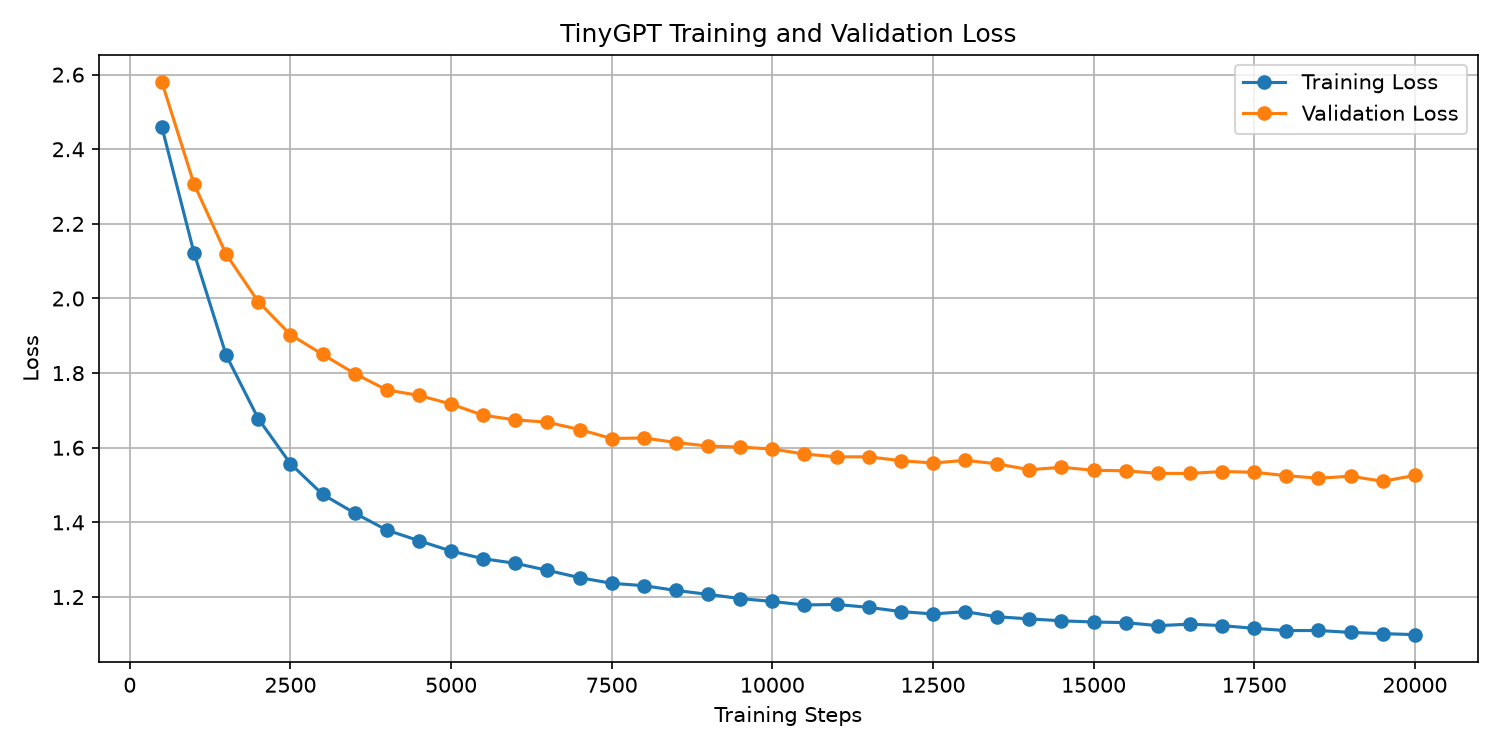
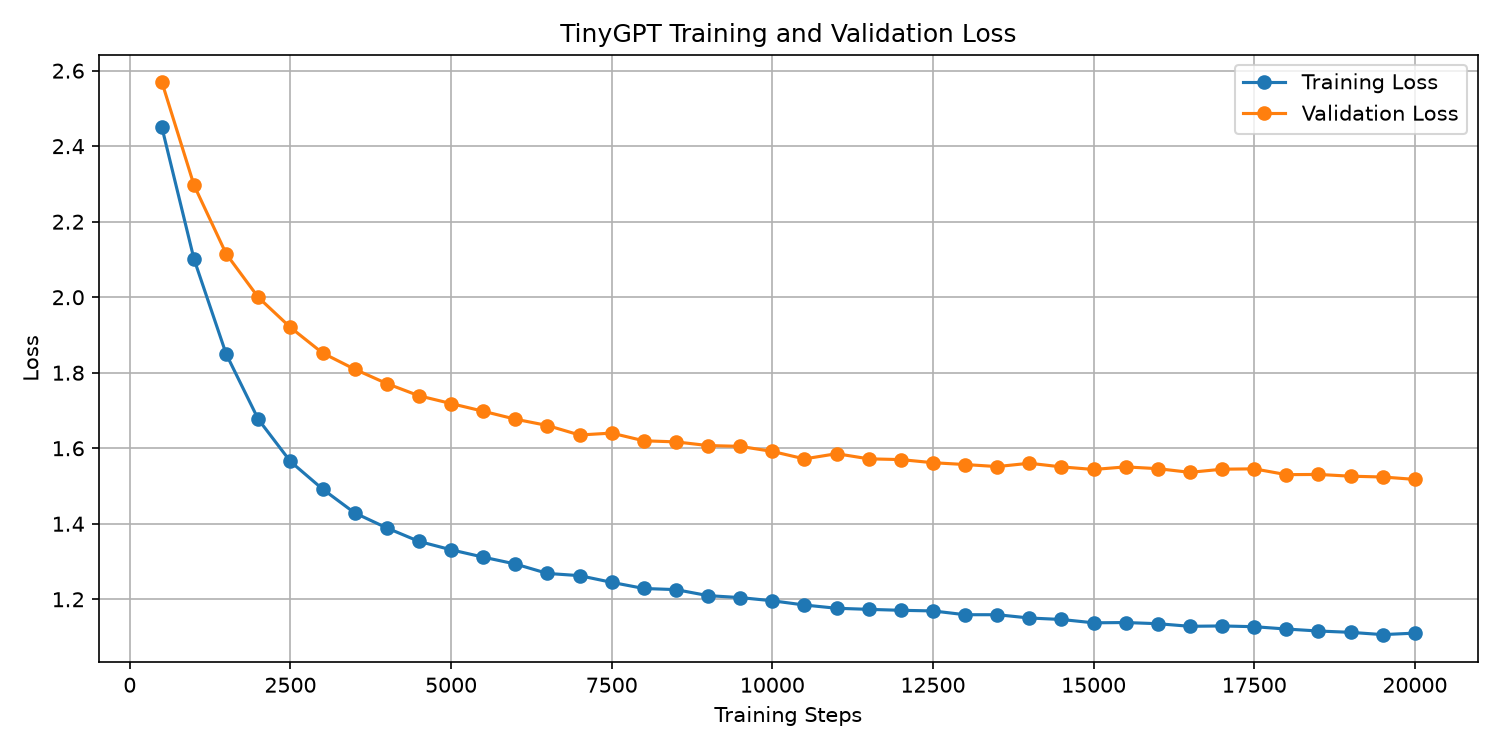
Add Gradio interface and document local setup

diff --git a/tiny_gpt.py b/tiny_gpt.py
@@ -14,7 +14,7 @@ from tiny_gpt_model import TinyGPT, generate
 # حتى تتوافق الـ prompts مثل "PyTorch" و"Neural networks" مع البيانات،
 # وبدل النصوص المولّدة بالقوالب التي تشجّع على النسخ الحرفي.
 
-data_path = Path(__file__).resolve().parent / "wiki_ai.txt"
+data_path = Path(__file__).resolve().parent / "./wiki_ai.txt"
 if not data_path.exists():
     raise FileNotFoundError(
         f"Missing {data_path.name}. Run: python fetch_wiki_ai.py"
@@ -43,6 +43,7 @@ print(chars)
 
 print("\nVocabulary size:")
 print(vocab_size)
+
 
 # ============================================================
 # 3. تحويل الحروف إلى أرقام
@@ -108,20 +109,20 @@ block_size = 128
 batch_size = 64
 shape = [batch_size, block_size]
 
-x = data[:block_size]
-y = data[1:block_size + 1] # y is the next character
+X = data[:block_size] #shape: (128,) # x هو تسلسل من الرموز
+Y = data[1:block_size + 1] # y is the next character  shape: (128,) # y هو التسلسل نفسه لكن متقدّم بمقدار رمز واحد
 
 print("\nInput x:")
-print(x)
+print(X)
 
 print("\nTarget y:")
-print(y)
+print(Y)
 
 print("\nX shape:")
-print(x.shape)
+print(X.shape)
 
 print("\nY shape:")
-print(y.shape)
+print(Y.shape)
 
 # اختيار 4 مواقع عشوائية من النص
 ix = torch.randint(high=len(data)-block_size, size=(batch_size,))
@@ -129,8 +130,8 @@ ix = torch.randint(high=len(data)-block_size, size=(batch_size,))
 print("\nRandom positions:")
 print(ix)
 
-x_batch = torch.stack([data[i:i + block_size] for i in ix])
-y_batch = torch.stack([data[i + 1:i + block_size + 1] for i in ix])
+x_batch = torch.stack([data[i:i + block_size] for i in ix]) # shape:(64,128) # x_batch هو مجموعة من التسلسلات العشوائية
+y_batch = torch.stack([data[i + 1:i + block_size + 1] for i in ix]) # shape:(64, 128) # y_batch هو مجموعة من التسلسلات العشوائية لكن متقدّم بمقدار رمز واحد
 
 print("\nX batch:")
 print(x_batch)
@@ -144,9 +145,9 @@ print(x_batch.shape)
 print("\nY batch shape:")
 print(y_batch.shape)
 
-token_embedding =nn.Embedding(vocab_size, 32)
+token_embedding =nn.Embedding(vocab_size, 32) #shape:(92, 32) # token_embedding هو تمثيل متجه لكل رمز في الـ vocabulary
 
-token_embeddings = token_embedding(x_batch)
+token_embeddings = token_embedding(x_batch) #shape:(64, 128, 32) # token_embeddings هو تمثيل متجه لكل رمز في التسلسلات العشوائية
 
 # print("\nToken embeddings:")
 # print(token_embeddings)
@@ -157,11 +158,14 @@ print(token_embeddings.shape)
 position_embedding = nn.Embedding(
     block_size,
     32
-)
+) # Shape:(128, 32) # position_embedding هو تمثيل متجه لكل موقع في التسلسل
 
-positions = torch.arange(block_size)
+positions = torch.arange(block_size) # Shape:(128) # positions هو تسلسل من
 
-position_embeddings = position_embedding(positions)
+print("\nPositions shape:")
+print(positions.shape)
+
+position_embeddings = position_embedding(positions)  #shape:(128, 32) # position_embeddings هو تمثيل متجه لكل موقع في التسلسل
 
 # print("\nPosition embeddings:")
 # print(position_embeddings)
@@ -169,7 +173,7 @@ position_embeddings = position_embedding(positions)
 print("\nPosition embeddings shape:")
 print(position_embeddings.shape)
 
-x = token_embeddings + position_embeddings
+x = token_embeddings + position_embeddings  #shape:(64, 128, 32) # x هو تمثيل متجه لكل رمز في التسلسلات العشوائية مع إضافة تمثيل الموقع
 
 # print("\nFinal input to Transformer:")
 # print(x)
@@ -661,23 +665,25 @@ if __name__ == "__main__":
     plt.grid(True)
     plt.tight_layout()
 
-    plt.savefig("tiny_gpt_loss.png", dpi=150)
+    plt.savefig(Path(__file__).resolve().parent / "tiny_gpt_loss.png", dpi=150)
     plt.show()
 
     # احفظ أفضل أوزان بعد التدريب على بيانات الذكاء الاصطناعي
-    Path("models").mkdir(exist_ok=True)
+    model_dir = Path(__file__).resolve().parent / "models"
+    model_dir.mkdir(exist_ok=True)
     if best_state is not None:
         model.load_state_dict(best_state)
 
-    torch.save(model.state_dict(), "models/tiny_gpt_best.pth")
+    checkpoint_path = model_dir / "tiny_gpt_best.pth"
+    torch.save(model.state_dict(), checkpoint_path)
     print(f"Best step: {best_step}")
     print(f"Best validation loss: {best_val:.4f}")
-    print("Best model saved to models/tiny_gpt_best.pth")
+    print(f"Best model saved to {checkpoint_path}")
 
 
     # 1. تحميل أفضل نسخة من النموذج
     checkpoint = torch.load(
-        "models/tiny_gpt_best.pth",
+        checkpoint_path,
         map_location=device,
         weights_only=True
     )

diff --git a/app_gradio.py b/app_gradio.py
@@ -1,0 +1,125 @@
+"""واجهة Gradio لتوليد النص باستخدام TinyGPT المدرّب محليًا."""
+
+import os
+from pathlib import Path
+
+# منع مرور طلبات localhost عبر Proxy النظام
+for key in ("NO_PROXY", "no_proxy"):
+    current = os.environ.get(key, "")
+    extras = "127.0.0.1,localhost,::1"
+    os.environ[key] = f"{current},{extras}" if current else extras
+
+import gradio as gr
+import torch
+
+from tiny_gpt_model import TinyGPT, generate
+
+PROJECT_DIR = Path(__file__).resolve().parent
+CORPUS_PATH = PROJECT_DIR / "wiki_ai.txt"
+if not CORPUS_PATH.exists():
+    raise FileNotFoundError(
+        f"Missing training corpus: {CORPUS_PATH}\n"
+        "Run: python fetch_wiki_ai.py"
+    )
+
+text = CORPUS_PATH.read_text(encoding="utf-8")
+chars = sorted(set(text))
+vocab_size = len(chars)
+stoi = {char: index for index, char in enumerate(chars)}
+itos = {index: char for char, index in stoi.items()}
+
+block_size = 128
+EMBEDDING_DIM = 128
+NUM_HEADS = 4
+NUM_LAYERS = 6
+DROPOUT = 0.2
+device = torch.device("cuda" if torch.cuda.is_available() else "cpu")
+
+CHECKPOINT_PATH = PROJECT_DIR / "models" / "tiny_gpt_best.pth"
+if not CHECKPOINT_PATH.exists():
+    raise FileNotFoundError(
+        f"Missing checkpoint: {CHECKPOINT_PATH}\n"
+        "Train first with: python tiny_gpt.py"
+    )
+
+model = TinyGPT(
+    vocab_size=vocab_size,
+    embedding_dim=EMBEDDING_DIM,
+    num_heads=NUM_HEADS,
+    block_size=block_size,
+    num_layers=NUM_LAYERS,
+    dropout=DROPOUT,
+).to(device)
+
+state = torch.load(CHECKPOINT_PATH, map_location=device, weights_only=True)
+model.load_state_dict(state)
+model.eval()
+print(f"Loaded TinyGPT on {device} | vocab={vocab_size} | block_size={block_size}")
+
+
+def encode(value: str) -> list[int]:
+    missing = sorted(set(value) - stoi.keys())
+    if missing:
+        raise ValueError(
+            f"Characters {missing} not in vocabulary. "
+            "Use characters present in the training corpus."
+        )
+    return [stoi[char] for char in value]
+
+
+def decode(ids: list[int]) -> str:
+    return "".join(itos[index] for index in ids)
+
+
+def generate_text(prompt: str, max_new_tokens: int, temperature: float) -> str:
+    prompt = (prompt or "").strip()
+    if not prompt:
+        return "اكتب بداية نص أولًا (مثل: PyTorch )"
+
+    temperature = max(float(temperature), 0.05)
+    max_new_tokens = int(max_new_tokens)
+
+    try:
+        context = torch.tensor([encode(prompt)], dtype=torch.long, device=device)
+    except ValueError as exc:
+        return str(exc)
+
+    output = generate(
+        model,
+        context,
+        max_new_tokens=max_new_tokens,
+        temperature=temperature,
+    )
+    return decode(output[0].tolist())
+
+
+demo = gr.Interface(
+    fn=generate_text,
+    inputs=[
+        gr.Textbox(label="البداية (Prompt)", value="PyTorch ", lines=2),
+        gr.Slider(20, 400, value=150, step=10, label="عدد الأحرف الجديدة"),
+        gr.Slider(0.1, 1.5, value=0.8, step=0.05, label="Temperature"),
+    ],
+    outputs=gr.Textbox(label="النص المولَّد", lines=12),
+    title="TinyGPT Demo",
+    description=(
+        "واجهة تستدعي TinyGPT المدرّب محليًا. "
+        "مدرَّب على مقالات ويكيبيديا عن الذكاء الاصطناعي (Character-level)."
+    ),
+    examples=[
+        ["PyTorch ", 200, 0.8],
+        ["A transformer ", 200, 0.8],
+        ["Deep learning ", 200, 0.7],
+        ["Neural networks ", 200, 0.8],
+        ["Language models ", 200, 0.9],
+    ],
+)
+
+if __name__ == "__main__":
+    demo.launch(
+        server_name="127.0.0.1",
+        server_port=7860,
+        share=False,
+        inbrowser=True,
+        show_error=True,
+    )

diff --git a/README.md b/README.md
@@ -49,6 +49,16 @@ Fetching the Wikipedia extracts requires an internet connection. Training can ta
 
 After training, the script saves the loss plot as `tiny_gpt_loss.png` and the best model weights to `models/tiny_gpt_best.pth`. It also prints sample generations to the terminal.
 
+## Gradio demo
+
+After fetching the corpus and training the model, launch the local web interface:
+
+```bash
+python app_gradio.py
+```
+
+Open `http://127.0.0.1:7860` in your browser. The interface uses the same corpus vocabulary and checkpoint produced by `tiny_gpt.py`. The corpus and checkpoint are local files and are not included in Git.
+
 ## Tests
 
 Run the fast, offline model checks with:
@@ -65,6 +75,7 @@ The tests verify that changing future tokens cannot change earlier-position logi
 | --- | --- |
 | `tiny_gpt.py` | Model, training loop, evaluation, and text generation |
 | `tiny_gpt_model.py` | Custom attention, Transformer blocks, and text generation |
+| `app_gradio.py` | Local Gradio text-generation interface |
 | `fetch_wiki_ai.py` | Downloads and prepares the English AI training corpus |
 | `tiny_gpt_loss.png` | Example training and validation loss plot |
 | `requirements.txt` | Python package requirements |
